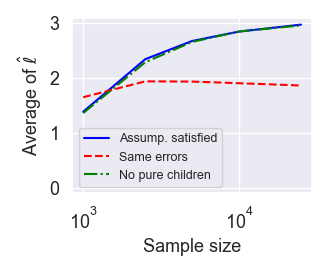
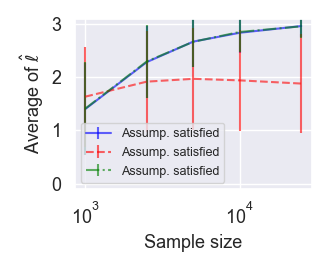
saved stats

diff --git a/experiments/utils.py b/experiments/utils.py
@@ -90,18 +90,18 @@ def get_statistics(info):
         #upper_number_shared[s_ix] = np.nanquantile(number_shared, 0.75)
 
     result = {}
-    result["too_many_shared_rate"] = {"mean": too_many_shared_rate, 
-                                      "lower": too_many_shared_rate-too_many_shared_std,
-                                      "upper": too_many_shared_rate+too_many_shared_std}
-    result["number_shared"] = {"mean": avg_number_shared, 
-                               "lower": avg_number_shared-std_number_shared,
-                               "upper": avg_number_shared+std_number_shared}
-    result["mixing_error"] = {"mean": mixing_error_median, 
-                              "lower": mixing_error_lower,
-                              "upper": mixing_error_upper}
-    result["graph_error"] = {"mean": graph_error_median, 
-                             "lower": graph_error_lower,
-                             "upper": graph_error_upper}
+    result["too_many_shared_rate"] = {"mean": too_many_shared_rate.tolist(), 
+                                      "lower": (too_many_shared_rate-too_many_shared_std).tolist(),
+                                      "upper": (too_many_shared_rate+too_many_shared_std).tolist()}
+    result["number_shared"] = {"mean": avg_number_shared.tolist(), 
+                               "lower": (avg_number_shared-std_number_shared).tolist(),
+                               "upper": (avg_number_shared+std_number_shared).tolist()}
+    result["mixing_error"] = {"mean": mixing_error_median.tolist(), 
+                              "lower": mixing_error_lower.tolist(),
+                              "upper": mixing_error_upper.tolist()}
+    result["graph_error"] = {"mean": graph_error_median.tolist(), 
+                             "lower": graph_error_lower.tolist(),
+                             "upper": graph_error_upper.tolist()}
     result["total_time"] = total_time
 
     return result
@@ -120,8 +120,8 @@ def plot(nsamples_list, stats2, stats3, stats4, ylabel="Score", path="test.png",
 
     # Stats2
     if (stats2["lower"] is not None) and error_bars:
-        yerr_lower = stats2["mean"] - stats2["lower"]
-        yerr_upper = stats2["upper"] - stats2["mean"]
+        yerr_lower = np.asarray(stats2["mean"]) - np.asarray(stats2["lower"])
+        yerr_upper = np.asarray(stats2["upper"]) - np.asarray(stats2["mean"])
         yerr = np.row_stack((yerr_lower, yerr_upper))
     plt.errorbar(x=nsamples_list, y=stats2["mean"], yerr=yerr,
                  linestyle="-", color="blue", label=labels[0], alpha=0.6, barsabove=True)
@@ -131,8 +131,8 @@ def plot(nsamples_list, stats2, stats3, stats4, ylabel="Score", path="test.png",
 
     # Stats3
     if (stats3["lower"] is not None) and error_bars:
-        yerr_lower = stats3["mean"] - stats3["lower"]
-        yerr_upper = stats3["upper"] - stats3["mean"]
+        yerr_lower = np.asarray(stats3["mean"]) - np.asarray(stats3["lower"])
+        yerr_upper = np.asarray(stats3["upper"]) - np.asarray(stats3["mean"])
         yerr = np.row_stack((yerr_lower, yerr_upper))
     plt.errorbar(x=nsamples_list, y=stats3["mean"], yerr=yerr,
                  linestyle="--", color="red", label=labels[0], alpha=0.6)
@@ -143,8 +143,8 @@ def plot(nsamples_list, stats2, stats3, stats4, ylabel="Score", path="test.png",
     # Stats4
     if stats4 is not None:
         if (stats4["lower"] is not None) and error_bars:
-            yerr_lower = stats4["mean"] - stats4["lower"]
-            yerr_upper = stats4["upper"] - stats4["mean"]
+            yerr_lower = np.asarray(stats4["mean"]) - np.asarray(stats4["lower"])
+            yerr_upper = np.asarray(stats4["upper"]) - np.asarray(stats4["mean"])
             yerr = np.row_stack((yerr_lower, yerr_upper))
         plt.errorbar(x=nsamples_list, y=stats4["mean"], yerr=yerr,
                  linestyle="-.", color="green", label=labels[0], alpha=0.6)

diff --git a/experiments/experiment_assump_violated/create-plots.py b/experiments/experiment_assump_violated/create-plots.py
@@ -8,7 +8,7 @@ from experiments.utils import get_statistics, plot
 
 
 # Load
-with open(f"experiments/experiment_l=3/results/ndom=3.pkl", "rb") as f:
+with open(f"experiments/experiment_l=3/results_gamma=0.2/ndom=3.pkl", "rb") as f:
     info_normal = pickle.load(f)
 with open(f"experiments/experiment_assump_violated/results/same_errors.pkl", "rb") as f:
     info_same_errors = pickle.load(f)
